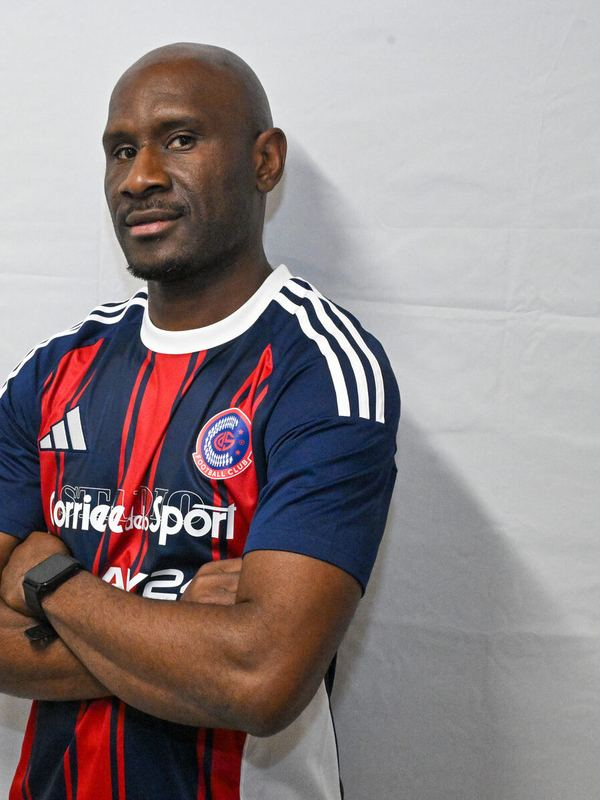
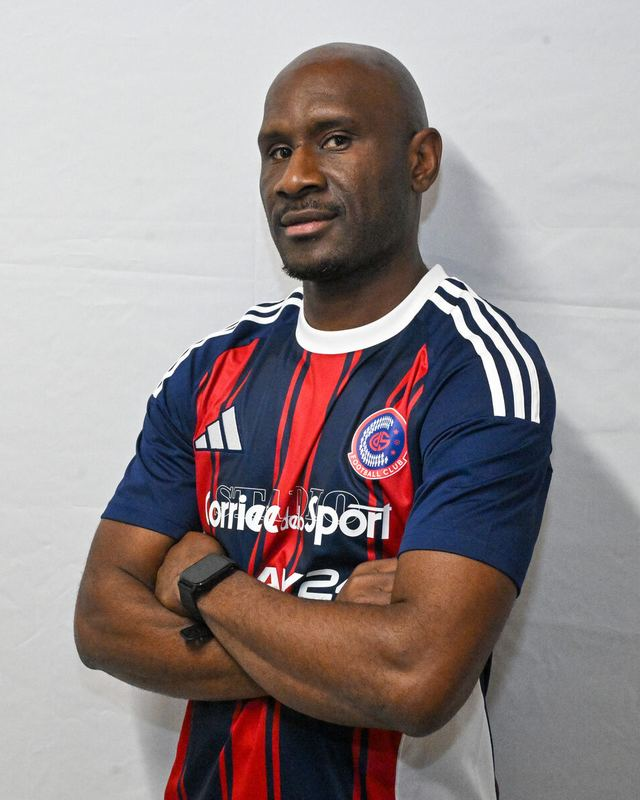
Figurine 4:5 con giocatori centrati nell'inquadratura
Claude-Session: https://claude.ai/code/session_018iUW8wkx1SwRTfUzwFK165

diff --git a/public/assets/css/style.css b/public/assets/css/style.css
@@ -146,7 +146,7 @@ html,body{overflow-x:hidden}
 .role-h .count{font-family:var(--display);font-size:30px;color:var(--red)}
 .grid{display:grid;grid-template-columns:repeat(auto-fill,minmax(210px,1fr));gap:22px}
 @media (max-width:560px){.grid{grid-template-columns:repeat(2,minmax(0,1fr));gap:12px}}
-.fig{position:relative;display:block;width:100%;aspect-ratio:3/4;padding:0;border:0;background:var(--navy);cursor:pointer;font:inherit;text-align:left;color:inherit;overflow:hidden;box-shadow:0 2px 6px rgba(7,23,57,.18)}
+.fig{position:relative;display:block;width:100%;aspect-ratio:4/5;padding:0;border:0;background:var(--navy);cursor:pointer;font:inherit;text-align:left;color:inherit;overflow:hidden;box-shadow:0 2px 6px rgba(7,23,57,.18)}
 .fig .face{position:absolute;inset:0}
 .fig .back{display:none;background:var(--navy);color:#fff;flex-direction:column;align-items:center;justify-content:center;gap:14px;padding:16px;text-align:center}
 .fig.flipped .front{display:none}

diff --git a/public/assets/js/site.js b/public/assets/js/site.js
@@ -115,7 +115,7 @@
     ];
     var turnIcon = '<svg aria-hidden="true" width="20" height="20" viewBox="0 0 24 24" fill="none" stroke="#E41B1D" stroke-width="2.2" stroke-linecap="round" stroke-linejoin="round"><path d="M21 12a9 9 0 1 1-3-6.7"/><path d="M21 4v5h-5"/></svg>';
     var card = function (p, dir, isStaff) {
-      var front = p.foto ? '<img class="ph" src="assets/img/' + dir + '/' + esc(p.foto) + '" alt="' + esc(p.nome + ' ' + p.cognome) + '" loading="lazy" width="600" height="800">'
+      var front = p.foto ? '<img class="ph" src="assets/img/' + dir + '/' + esc(p.foto) + '" alt="' + esc(p.nome + ' ' + p.cognome) + '" loading="lazy" width="640" height="800">'
         : '<div class="nophoto"><img src="assets/img/monogramma.png" alt="">FOTO IN ARRIVO</div>';
       var badge = isStaff ? '' : (p.ruolo && p.ruolo !== '?' ? '<span class="role">' + esc(p.ruolo) + '</span>' : '');
       var sub = isStaff ? esc(p.ruolo) : esc(p.nome);

diff --git a/public/calendario.html b/public/calendario.html
@@ -19,7 +19,7 @@
 <link rel="icon" href="assets/img/favicon-48.png" sizes="48x48">
 <link rel="apple-touch-icon" href="assets/img/apple-touch-icon.png">
 <link rel="preload" href="assets/fonts/playfair-display.woff2" as="font" type="font/woff2" crossorigin>
-<link rel="stylesheet" href="assets/css/style.css?v=202611101459">
+<link rel="stylesheet" href="assets/css/style.css?v=202611101505">
 </head>
 <body data-page="calendario">
 <a class="sr" href="#main">Vai al contenuto</a>
@@ -51,6 +51,6 @@
 </main>
 <footer id="site-footer"></footer>
 <script src="data/dati.js"></script>
-<script src="assets/js/site.js?v=202611101459"></script>
+<script src="assets/js/site.js?v=202611101505"></script>
 </body>
 </html>

diff --git a/public/contatti.html b/public/contatti.html
@@ -19,7 +19,7 @@
 <link rel="icon" href="assets/img/favicon-48.png" sizes="48x48">
 <link rel="apple-touch-icon" href="assets/img/apple-touch-icon.png">
 <link rel="preload" href="assets/fonts/playfair-display.woff2" as="font" type="font/woff2" crossorigin>
-<link rel="stylesheet" href="assets/css/style.css?v=202611101459">
+<link rel="stylesheet" href="assets/css/style.css?v=202611101505">
 </head>
 <body data-page="contatti">
 <a class="sr" href="#main">Vai al contenuto</a>
@@ -34,6 +34,6 @@
 </main>
 <footer id="site-footer"></footer>
 <script src="data/dati.js"></script>
-<script src="assets/js/site.js?v=202611101459"></script>
+<script src="assets/js/site.js?v=202611101505"></script>
 </body>
 </html>

diff --git a/public/partner.html b/public/partner.html
@@ -19,7 +19,7 @@
 <link rel="icon" href="assets/img/favicon-48.png" sizes="48x48">
 <link rel="apple-touch-icon" href="assets/img/apple-touch-icon.png">
 <link rel="preload" href="assets/fonts/playfair-display.woff2" as="font" type="font/woff2" crossorigin>
-<link rel="stylesheet" href="assets/css/style.css?v=202611101459">
+<link rel="stylesheet" href="assets/css/style.css?v=202611101505">
 </head>
 <body data-page="partner">
 <a class="sr" href="#main">Vai al contenuto</a>
@@ -30,6 +30,6 @@
 </main>
 <footer id="site-footer"></footer>
 <script src="data/dati.js"></script>
-<script src="assets/js/site.js?v=202611101459"></script>
+<script src="assets/js/site.js?v=202611101505"></script>
 </body>
 </html>

diff --git a/public/squadra.html b/public/squadra.html
@@ -19,7 +19,7 @@
 <link rel="icon" href="assets/img/favicon-48.png" sizes="48x48">
 <link rel="apple-touch-icon" href="assets/img/apple-touch-icon.png">
 <link rel="preload" href="assets/fonts/playfair-display.woff2" as="font" type="font/woff2" crossorigin>
-<link rel="stylesheet" href="assets/css/style.css?v=202611101459">
+<link rel="stylesheet" href="assets/css/style.css?v=202611101505">
 </head>
 <body data-page="squadra">
 <a class="sr" href="#main">Vai al contenuto</a>
@@ -38,6 +38,6 @@
 </main>
 <footer id="site-footer"></footer>
 <script src="data/dati.js"></script>
-<script src="assets/js/site.js?v=202611101459"></script>
+<script src="assets/js/site.js?v=202611101505"></script>
 </body>
 </html>

diff --git a/public/club.html b/public/club.html
@@ -19,7 +19,7 @@
 <link rel="icon" href="assets/img/favicon-48.png" sizes="48x48">
 <link rel="apple-touch-icon" href="assets/img/apple-touch-icon.png">
 <link rel="preload" href="assets/fonts/playfair-display.woff2" as="font" type="font/woff2" crossorigin>
-<link rel="stylesheet" href="assets/css/style.css?v=202611101459">
+<link rel="stylesheet" href="assets/css/style.css?v=202611101505">
 </head>
 <body data-page="club">
 <a class="sr" href="#main">Vai al contenuto</a>
@@ -34,6 +34,6 @@
 </main>
 <footer id="site-footer"></footer>
 <script src="data/dati.js"></script>
-<script src="assets/js/site.js?v=202611101459"></script>
+<script src="assets/js/site.js?v=202611101505"></script>
 </body>
 </html>

diff --git a/public/index.html b/public/index.html
@@ -19,7 +19,7 @@
 <link rel="icon" href="assets/img/favicon-48.png" sizes="48x48">
 <link rel="apple-touch-icon" href="assets/img/apple-touch-icon.png">
 <link rel="preload" href="assets/fonts/playfair-display.woff2" as="font" type="font/woff2" crossorigin>
-<link rel="stylesheet" href="assets/css/style.css?v=202611101459">
+<link rel="stylesheet" href="assets/css/style.css?v=202611101505">
 </head>
 <body data-page="home">
 <a class="sr" href="#main">Vai al contenuto</a>
@@ -33,6 +33,6 @@
 </main>
 <footer id="site-footer"></footer>
 <script src="data/dati.js"></script>
-<script src="assets/js/site.js?v=202611101459"></script>
+<script src="assets/js/site.js?v=202611101505"></script>
 </body>
 </html>
